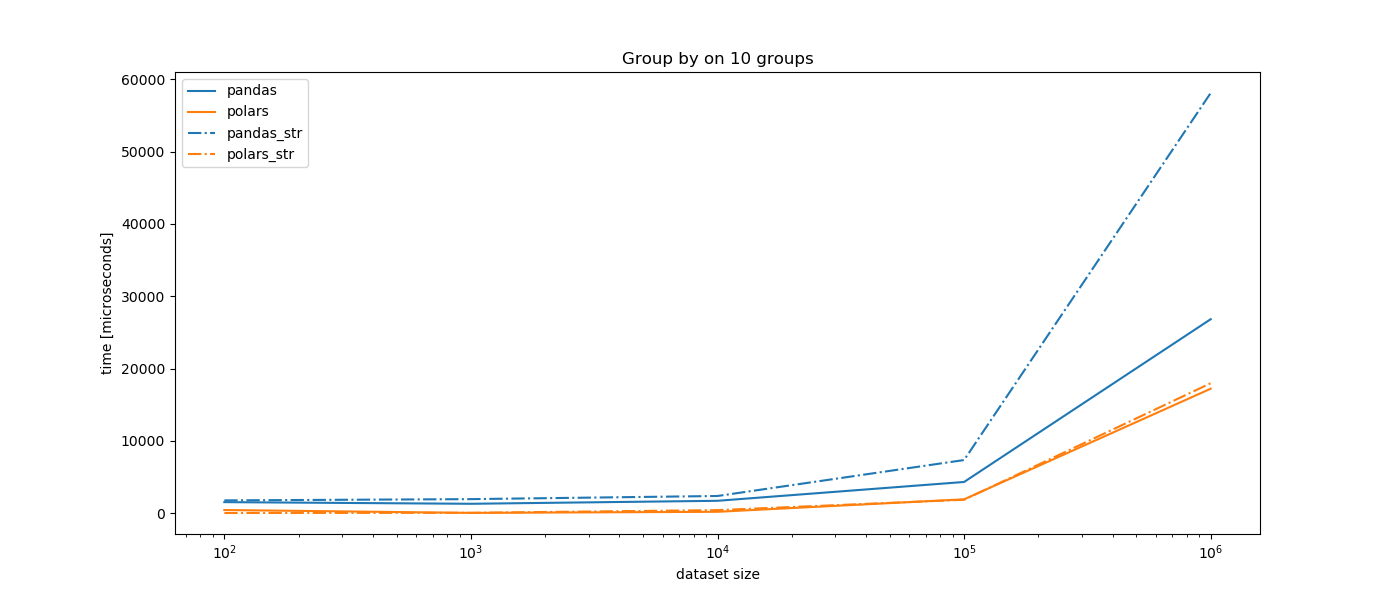
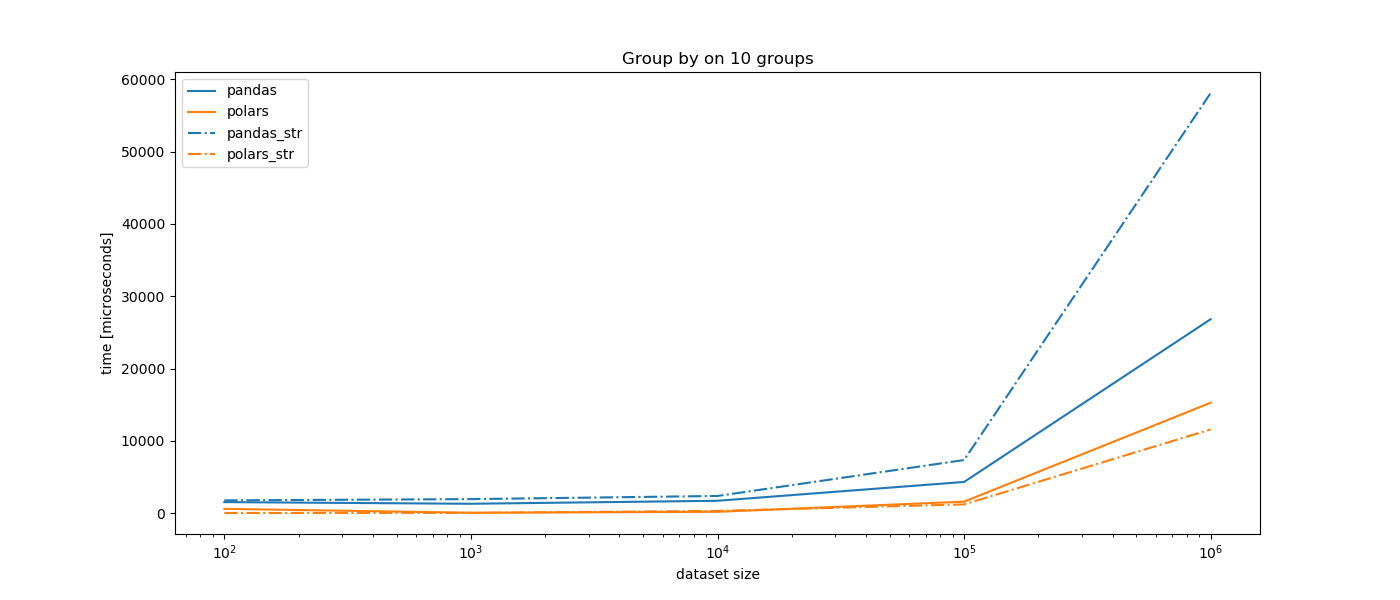
hoist swap check out of join tuples and redo performance benches

Changed region(s): [[0.5221, 0.69, 0.86, 0.87], [0.1536, 0.84, 0.2764, 0.87], [0.8293, 0.63, 0.86, 0.69]]

diff --git a/polars/src/frame/hash_join.rs b/polars/src/frame/hash_join.rs
@@ -113,14 +113,22 @@ where
     let hash_tbl = prepare_hashed_relation(b);
 
     // Next we probe the other relation in the hash table
-    a.enumerate().for_each(|(idx_a, key)| {
-        if let Some(indexes_b) = hash_tbl.get(&key) {
-            let tuples = indexes_b
-                .iter()
-                .map(|&idx_b| if swap { (idx_b, idx_a) } else { (idx_a, idx_b) });
-            results.extend(tuples)
-        }
-    });
+    // code duplication is because we want to only do the swap check once
+    if swap {
+        a.enumerate().for_each(|(idx_a, key)| {
+            if let Some(indexes_b) = hash_tbl.get(&key) {
+                let tuples = indexes_b.iter().map(|&idx_b| (idx_b, idx_a));
+                results.extend(tuples)
+            }
+        });
+    } else {
+        a.enumerate().for_each(|(idx_a, key)| {
+            if let Some(indexes_b) = hash_tbl.get(&key) {
+                let tuples = indexes_b.iter().map(|&idx_b| (idx_a, idx_b));
+                results.extend(tuples)
+            }
+        });
+    }
     results
 }
 
@@ -172,36 +180,43 @@ where
     // probe the hash table.
     // Note: indexes from b that are not matched will be None, Some(idx_b)
     // Therefore we remove the matches and the remaining will be joined from the right
-    a.enumerate().for_each(|(idx_a, key)| {
-        match hash_tbl.remove(&key) {
-            // left and right matches
-            Some(indexes_b) => results.extend(indexes_b.iter().map(|&idx_b| {
-                if swap {
-                    (Some(idx_b), Some(idx_a))
-                } else {
-                    (Some(idx_a), Some(idx_b))
+
+    // code duplication is because we want to only do the swap check once
+    if swap {
+        a.enumerate().for_each(|(idx_a, key)| {
+            match hash_tbl.remove(&key) {
+                // left and right matches
+                Some(indexes_b) => {
+                    results.extend(indexes_b.iter().map(|&idx_b| (Some(idx_b), Some(idx_a))))
                 }
-            })),
-            // only left values, right = null
-            None => {
-                results.insert(if swap {
-                    (None, Some(idx_a))
-                } else {
-                    (Some(idx_a), None)
-                });
+                // only left values, right = null
+                None => {
+                    results.insert((None, Some(idx_a)));
+                }
             }
-        }
-    });
-    hash_tbl.iter().for_each(|(_k, indexes_b)| {
-        // remaining joined values from the right table
-        results.extend(indexes_b.iter().map(|&idx_b| {
-            if swap {
-                (Some(idx_b), None)
-            } else {
-                (None, Some(idx_b))
+        });
+        hash_tbl.iter().for_each(|(_k, indexes_b)| {
+            // remaining joined values from the right table
+            results.extend(indexes_b.iter().map(|&idx_b| (Some(idx_b), None)))
+        });
+    } else {
+        a.enumerate().for_each(|(idx_a, key)| {
+            match hash_tbl.remove(&key) {
+                // left and right matches
+                Some(indexes_b) => {
+                    results.extend(indexes_b.iter().map(|&idx_b| (Some(idx_a), Some(idx_b))))
+                }
+                // only left values, right = null
+                None => {
+                    results.insert((Some(idx_a), None));
+                }
             }
-        }))
-    });
+        });
+        hash_tbl.iter().for_each(|(_k, indexes_b)| {
+            // remaining joined values from the right table
+            results.extend(indexes_b.iter().map(|&idx_b| (None, Some(idx_b))))
+        });
+    };
 
     results
 }

diff --git a/pandas_cmp/src/main.rs b/pandas_cmp/src/main.rs
@@ -14,7 +14,7 @@ fn read_df(f: &File) -> DataFrame {
         .expect("dataframe");
 
     // for groupby we need to cast a column to a string
-    if let Some(s) = df.select_mut("str") {
+    if let Ok(s) = df.column("str") {
         let s = s
             .i64()
             .expect("i64")
